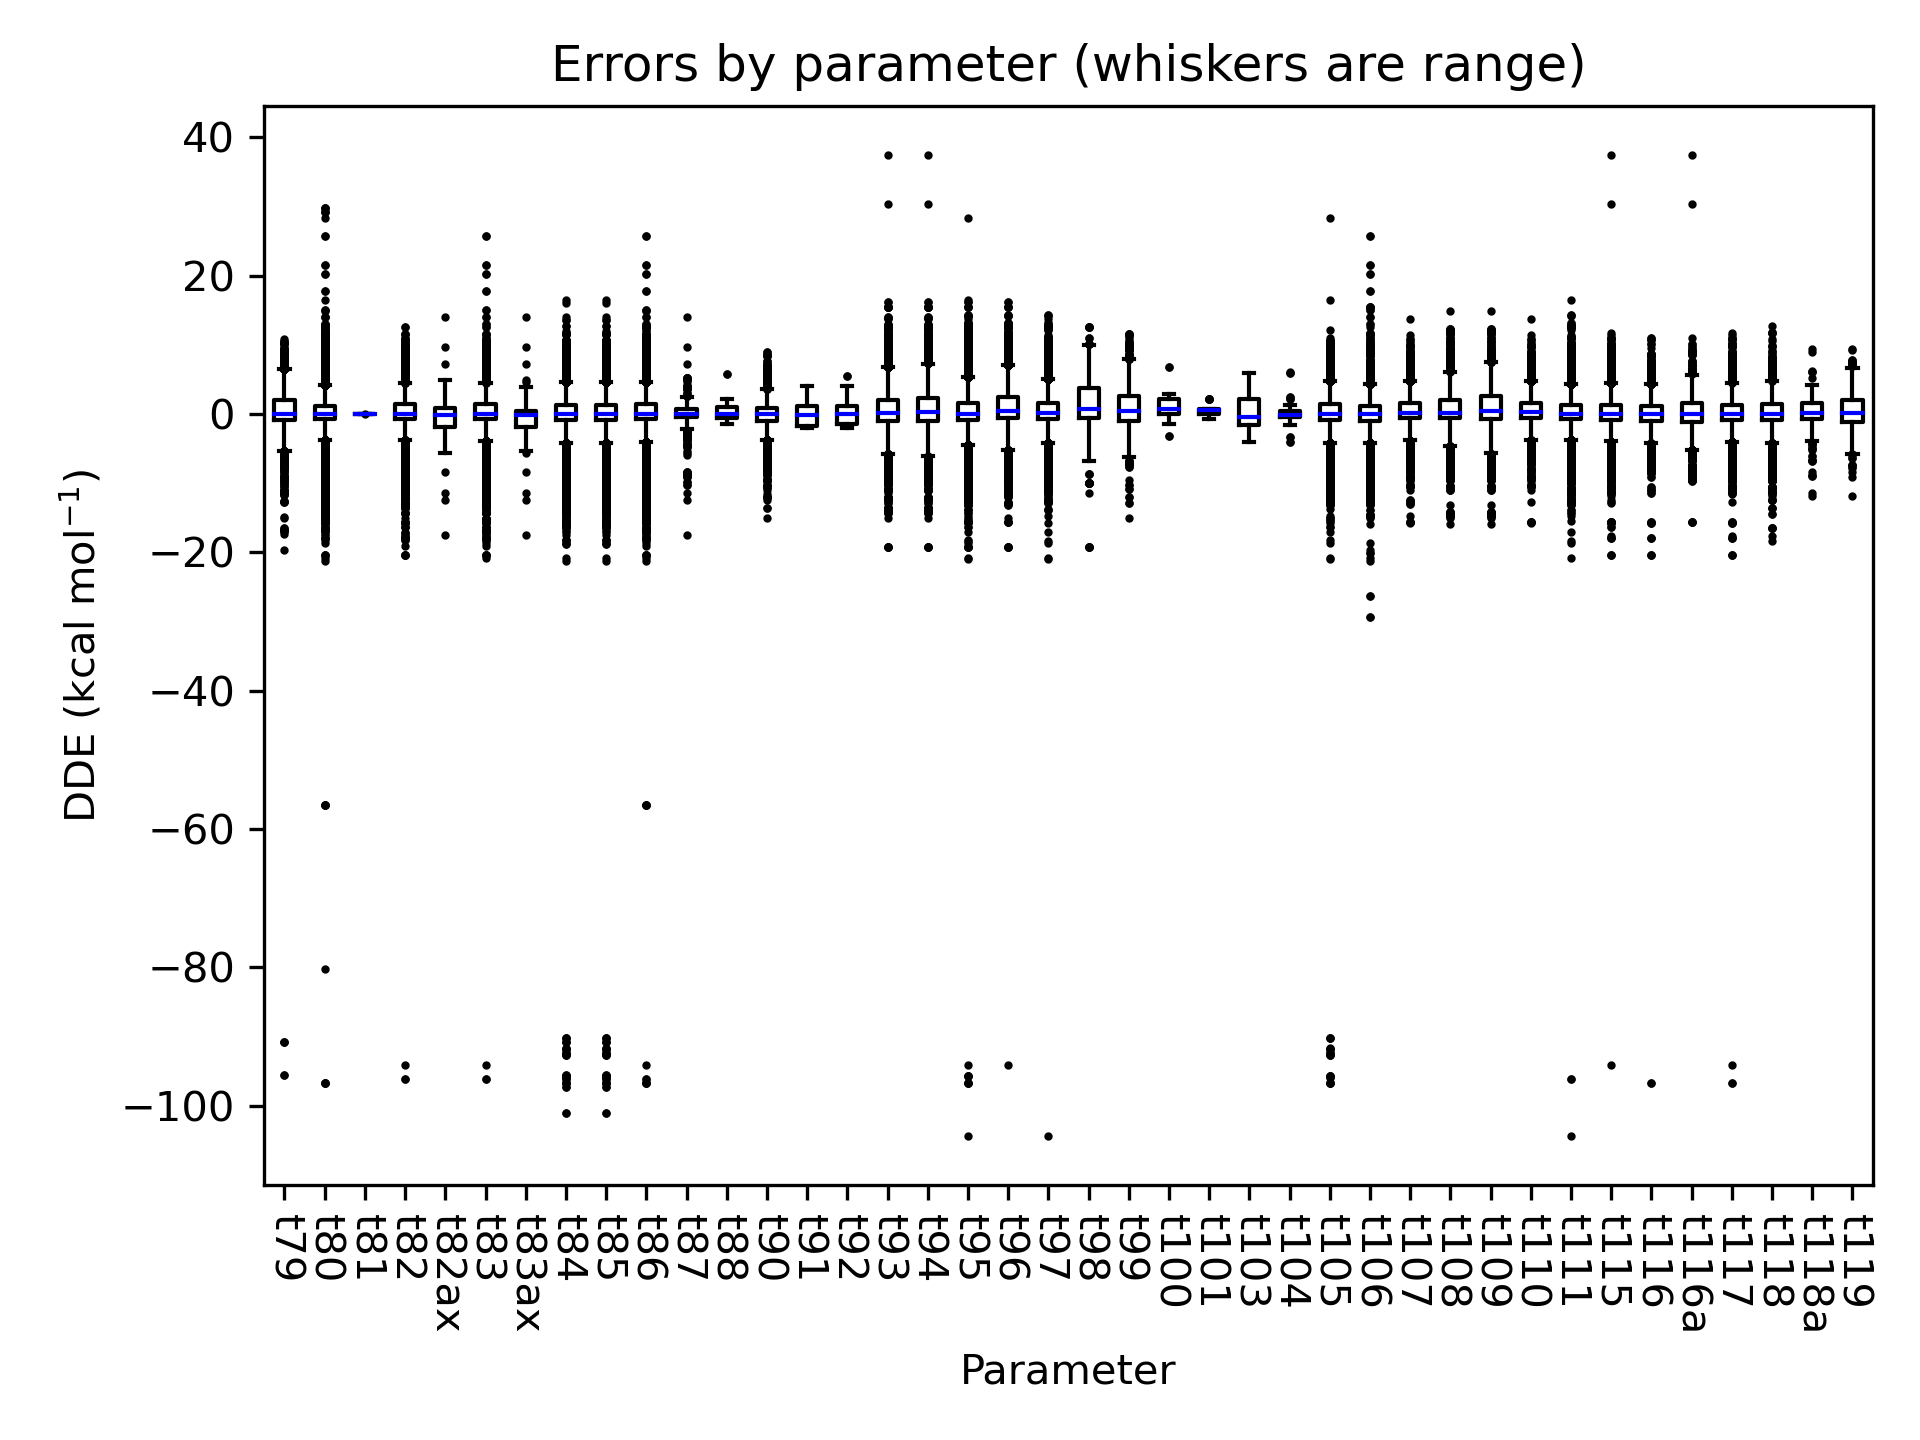
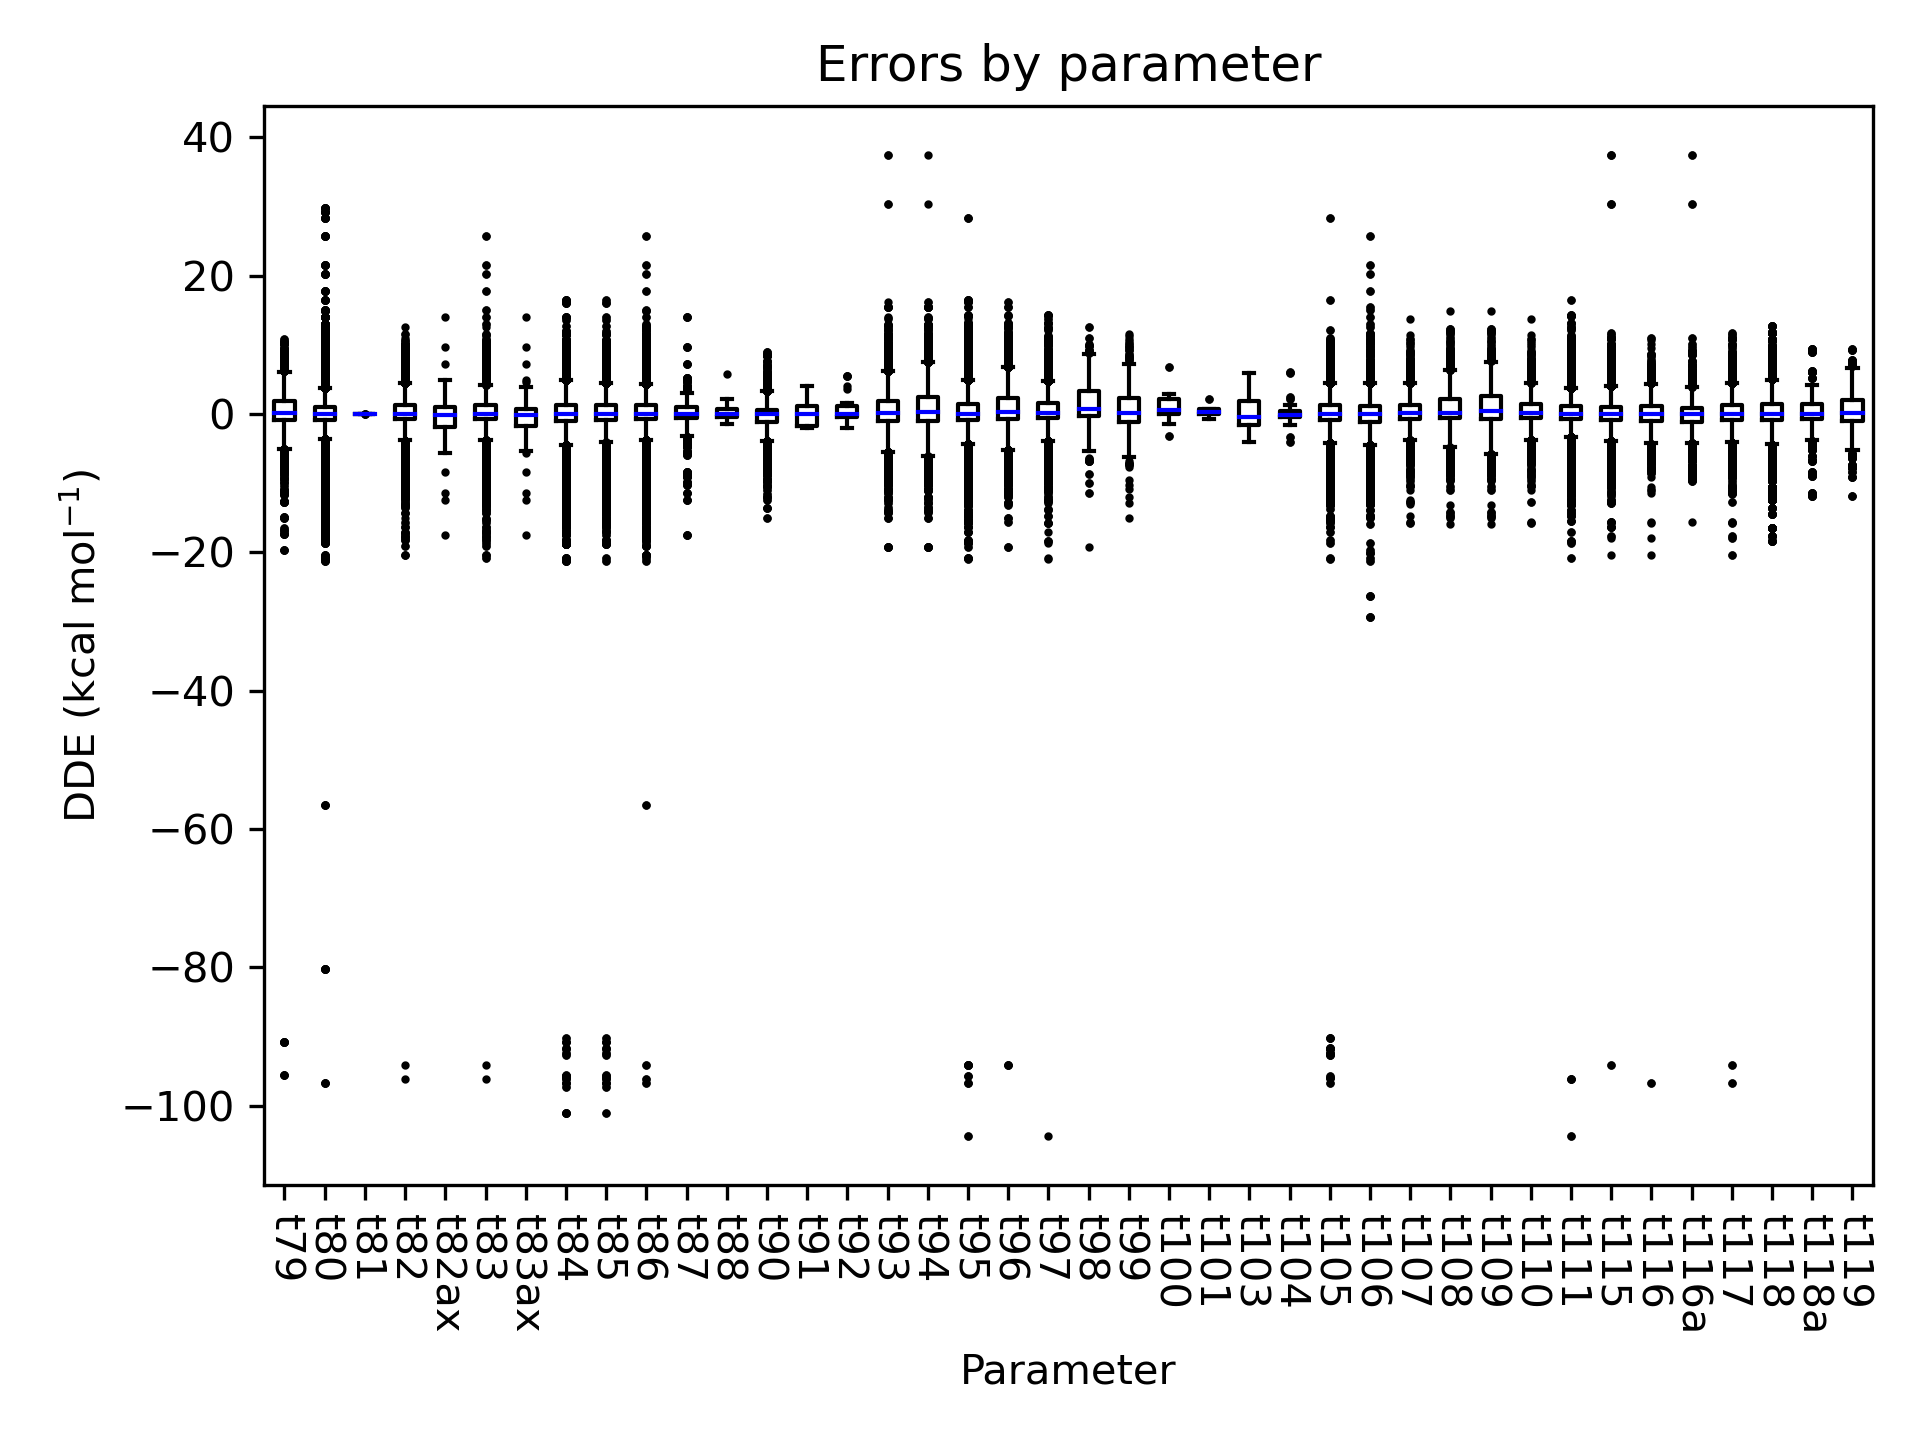
move into main, fix using bond count in angles and torsions

Changed region(s): [[0.2812, 0.0312, 0.8438, 0.0625]]

diff --git a/parse_hist.py b/parse_hist.py
@@ -73,25 +73,30 @@ def plot(params, filename):
         plt.close()
 
 
-records = Record.from_file("hist.json")
+def main():
+    records = Record.from_file("hist.json")
 
-tm = read_csv("output/industry/tm/dde.csv")
+    tm = read_csv("output/industry/tm/dde.csv")
 
-# these are dicts of parameter_id -> error, where error is a list of all errors
-# for molecules containing these ids
-bonds = defaultdict(list)
-angles = defaultdict(list)
-torsions = defaultdict(list)
+    # these are dicts of parameter_id -> error, where error is a list of all
+    # errors for molecules containing these ids
+    bonds = defaultdict(list)
+    angles = defaultdict(list)
+    torsions = defaultdict(list)
 
-for rec, diff in tqdm(tm.items(), desc="Parsing hist", total=len(tm)):
-    rec = records[rec]
-    for bond, count in rec.bonds.items():
-        bonds[bond].extend([diff] * count)
-    for angle in rec.angles:
-        angles[angle].extend([diff] * count)
-    for torsion in rec.torsions:
-        torsions[torsion].extend([diff] * count)
+    for rec, diff in tqdm(tm.items(), desc="Parsing hist", total=len(tm)):
+        rec = records[rec]
+        for bond, count in rec.bonds.items():
+            bonds[bond].extend([diff] * count)
+        for angle, count in rec.angles.items():
+            angles[angle].extend([diff] * count)
+        for torsion, count in rec.torsions.items():
+            torsions[torsion].extend([diff] * count)
 
-for name in ["bonds", "angles", "torsions"]:
-    # summary(globals()[name], name.title())
-    plot(globals()[name], "hist/" + name + "{:03d}.png")
+    for name in ["bonds", "angles", "torsions"]:
+        # summary(locals()[name], name.title())
+        plot(locals()[name], "hist/" + name + "{:03d}.png")
+
+
+if __name__ == "__main__":
+    main()
